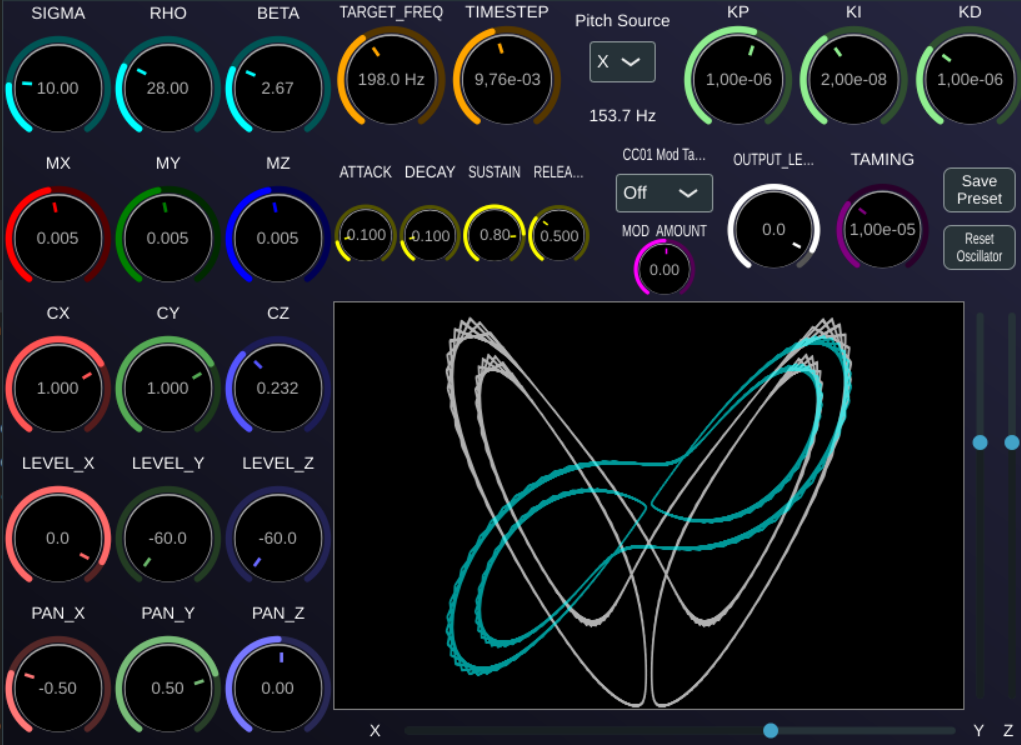
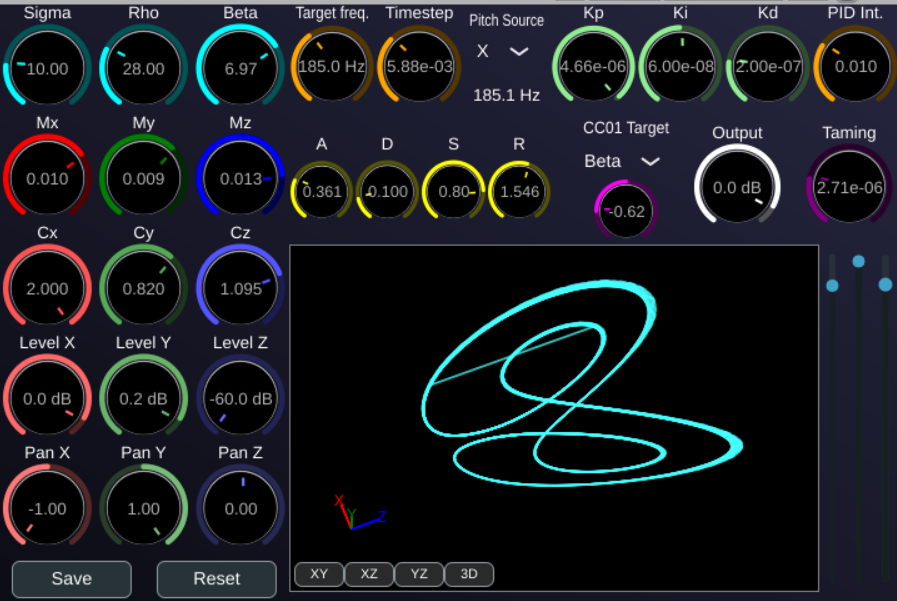
Visual adjustments + new screenshot

diff --git a/Source/PluginEditor.cpp b/Source/PluginEditor.cpp
@@ -57,7 +57,7 @@ LorenzAudioProcessorEditor::LorenzAudioProcessorEditor (LorenzAudioProcessor& p,
     addAndMakeVisible(attractorComponent);
 
     addAndMakeVisible(viewZoomXSlider);
-    viewZoomXSlider.setSliderStyle(juce::Slider::LinearHorizontal);
+    viewZoomXSlider.setSliderStyle(juce::Slider::LinearVertical);
     viewZoomXSlider.setTextBoxStyle(juce::Slider::NoTextBox, false, 0, 0);
     viewZoomXAttachment = std::make_unique<juce::AudioProcessorValueTreeState::SliderAttachment>(apvts, "VIEW_ZOOM_X", viewZoomXSlider);
 
@@ -233,15 +233,15 @@ void LorenzAudioProcessorEditor::resized()
     fbOutput.items.add(fi(tamingKnob).withFlex(1.5f).withMargin(juce::FlexItem::Margin(10,0,10,10)));
     // fbOutput.items.add(fi(fbButtons).withFlex(1.5f).withMargin(juce::FlexItem::Margin(20, 0, 20, 0)));
     fbGraphx.items.add(fi(attractorComponent).withFlex(1.f));
-    fbGraphx.items.add(fi(viewZoomZSlider).withFlex(.05f));
+    fbGraphx.items.add(fi(viewZoomXSlider).withFlex(.05f));
     fbGraphx.items.add(fi(viewZoomYSlider).withFlex(.05f));
-    fbGraphx2.items.add(fi(viewZoomXLabel).withFlex(.05f));
-    fbGraphx2.items.add(fi(viewZoomXLabel).withFlex(.05f));
-    fbGraphx2.items.add(fi(viewZoomXSlider).withFlex(.95f));
-    fbGraphx2.items.add(fi(viewZoomYLabel).withFlex(.05f));
-    fbGraphx2.items.add(fi(viewZoomZLabel).withFlex(.05f));
-    fbGraphy.items.add(fi(fbGraphx).withFlex(1.f));
-    fbGraphy.items.add(fi(fbGraphx2).withFlex(.1f));
+    fbGraphx.items.add(fi(viewZoomZSlider).withFlex(.05f));
+    // fbGraphx2.items.add(fi(viewZoomXLabel).withFlex(.05f));
+    // fbGraphx2.items.add(fi(viewZoomXLabel).withFlex(.05f));
+    // fbGraphx2.items.add(fi(viewZoomYLabel).withFlex(.05f));
+    // fbGraphx2.items.add(fi(viewZoomZLabel).withFlex(.05f));
+    fbGraphy.items.add(fi(fbGraphx).withFlex(1.f).withMargin(juce::FlexItem::Margin(0,0,10,0)));
+    // fbGraphy.items.add(fi(fbGraphx2).withFlex(.1f));
     fbMiddle.items.add(fi(fbF1).withFlex(.9f));
     fbMiddle.items.add(fi(fbOutput).withFlex(1.1f));
     fbMiddle.items.add(fi(fbGraphy).withFlex(3.f));

diff --git a/Source/AttractorComponent3D.h b/Source/AttractorComponent3D.h
@@ -161,7 +161,7 @@ public:
             const float brightness = juce::jmap(p1.z, -0.5f, 0.5f, 0.4f, 1.0f);
             const float thickness = juce::jmap(p1.z, -0.5f, 0.5f, 1.0f, 2.5f);
 
-            g.setColour(juce::Colours::green.brighter().withAlpha(brightness));
+            g.setColour(juce::Colours::cyan.brighter().withAlpha(brightness));
             g.drawLine(path.getCurrentPosition().x, path.getCurrentPosition().y, projectedX1, projectedY1, thickness);
             path.lineTo(projectedX1, projectedY1);
         }
